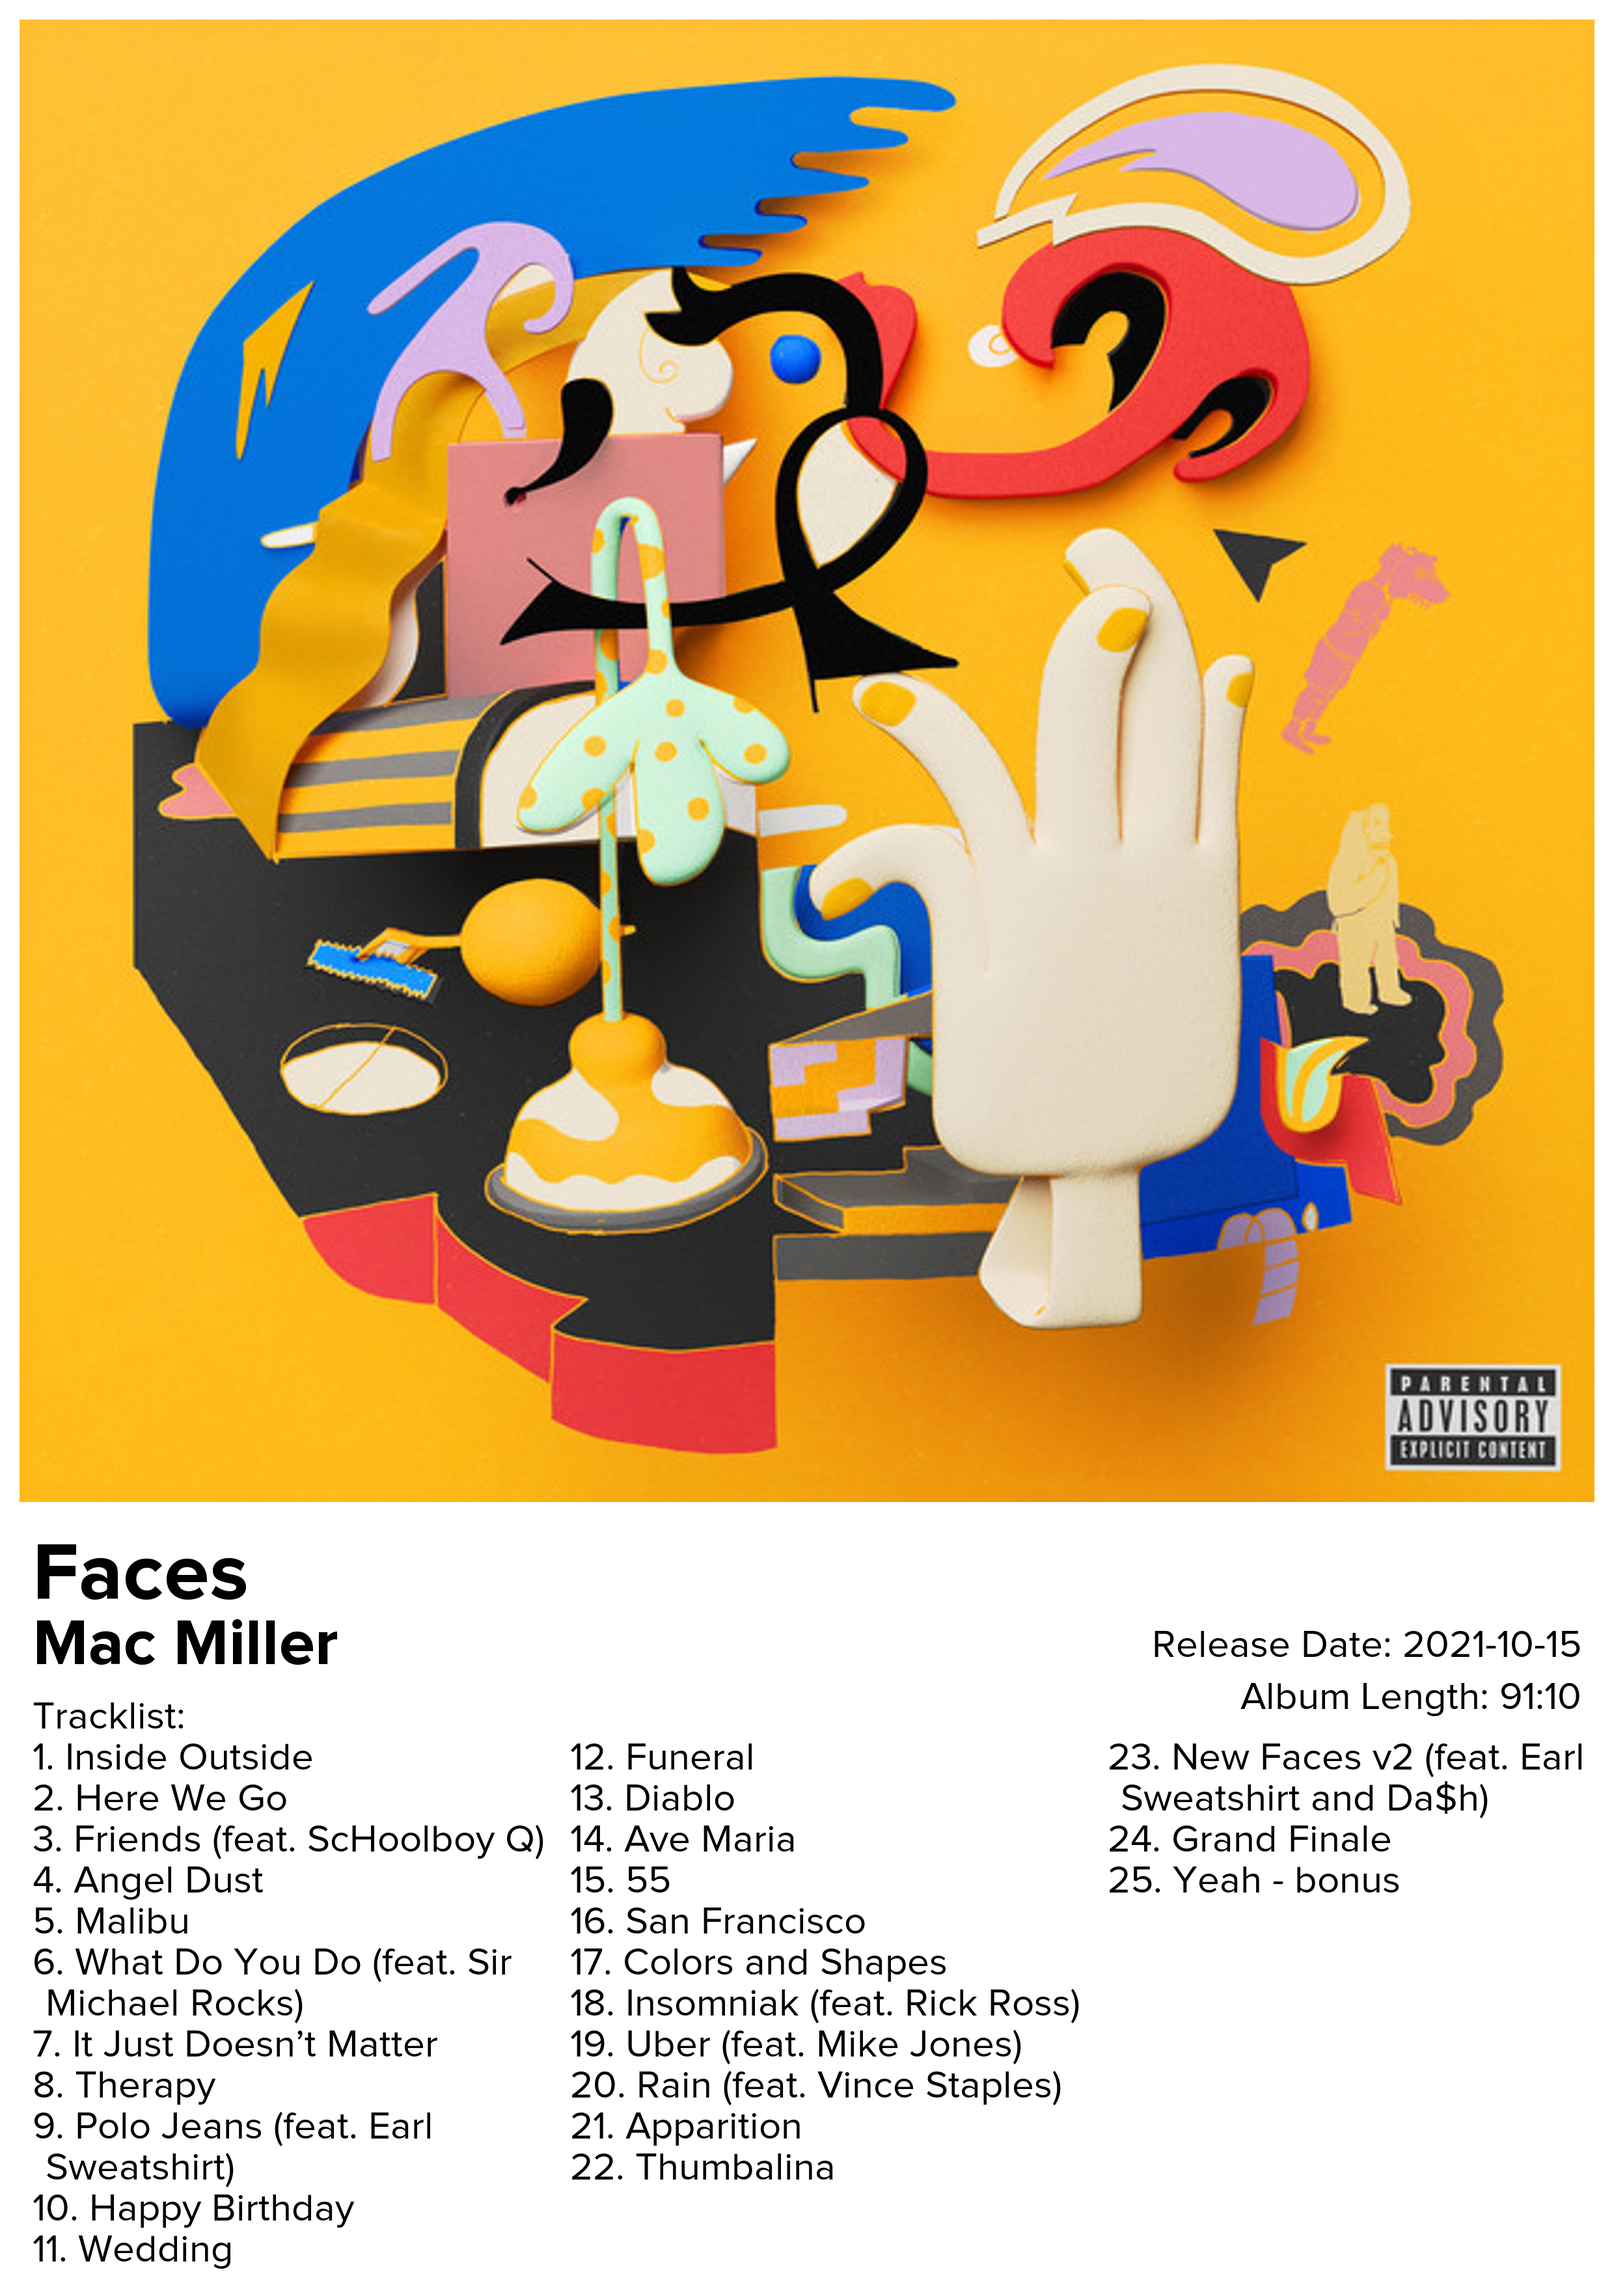
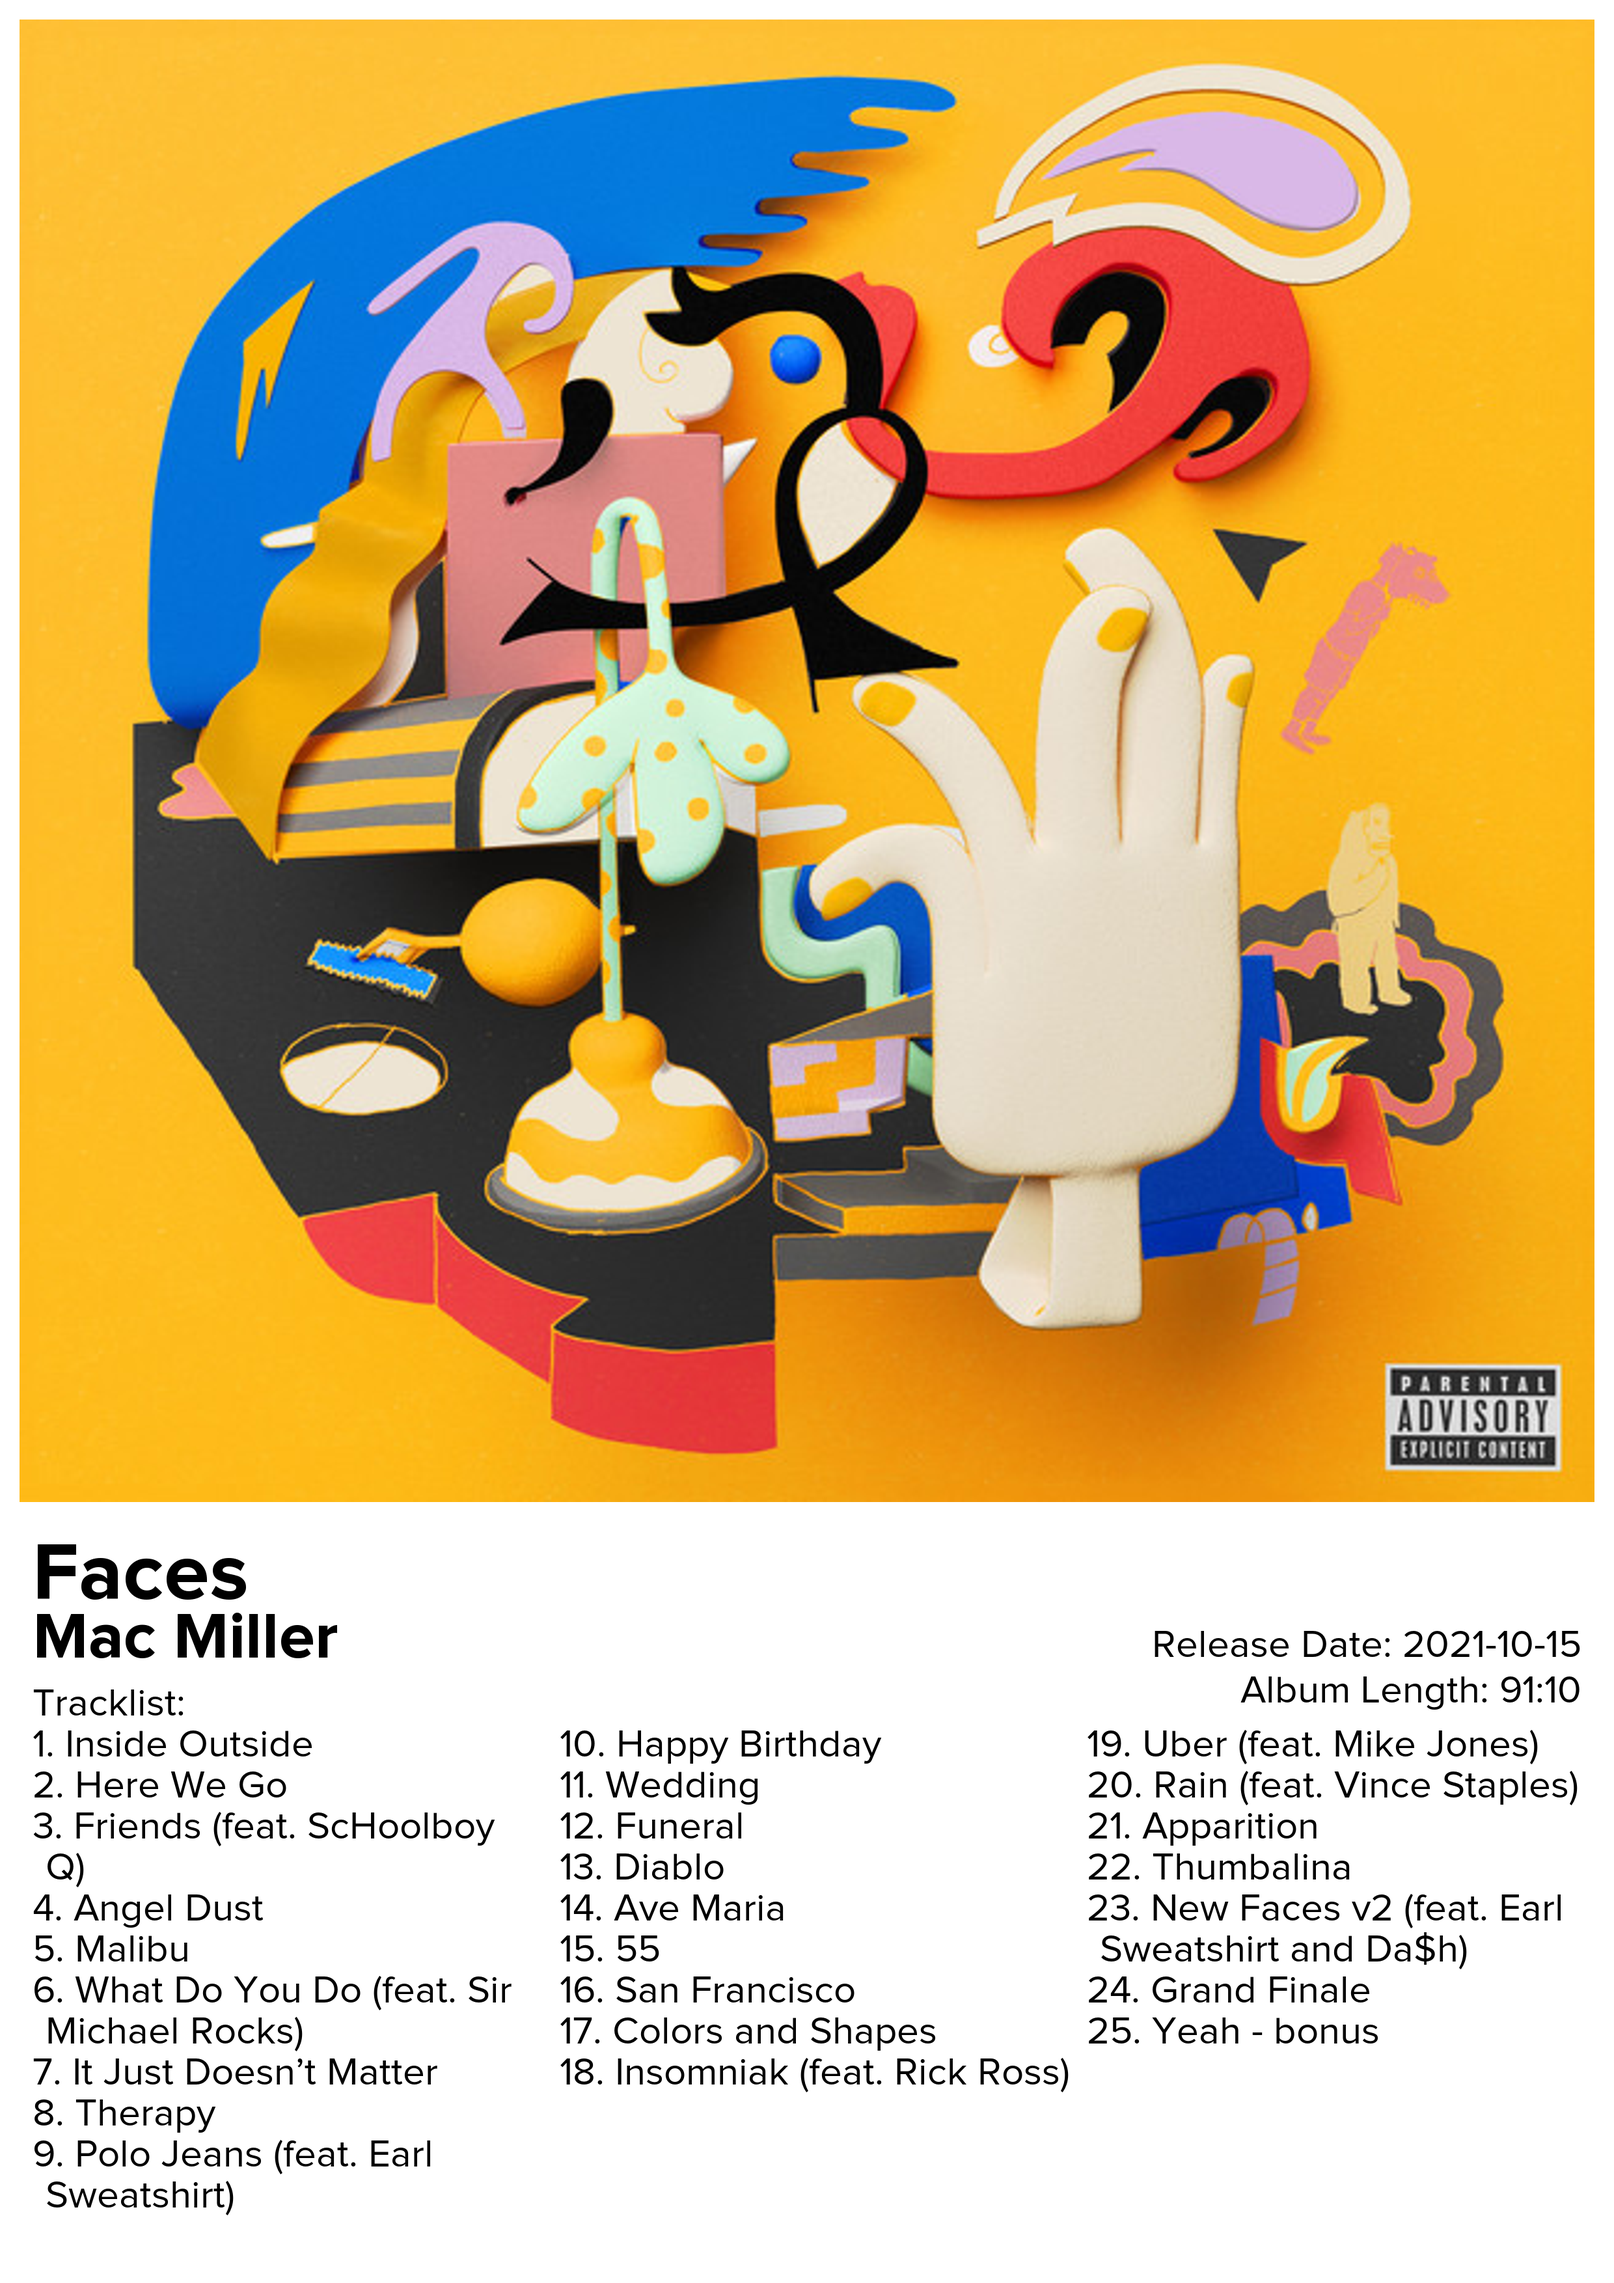
bug: long album titles wrapped

Changed region(s): [[0.3415, 0.7147, 0.9625, 0.9632], [0.0, 0.7147, 0.3105, 0.9943]]

diff --git a/PosterPythonFlask.py b/PosterPythonFlask.py
@@ -104,8 +104,23 @@ def create_album_poster(album_name, artist_name, release_date, cover_url, trackl
     
     # Calculate text positions
     text_start_y = cover_image_height + 20
-    draw.text((50, text_start_y), f"{album_name}", fill="black", font=font_title)
-    draw.text((50, text_start_y + 120), f"{artist_name}", fill="black", font=font_subtitle)
+    
+    # Resize album title font if necessary and wrap text if it's too long
+    max_title_width = poster_width - 100
+    album_name_lines = wrap_text(album_name, font_title, max_title_width)
+    
+    if len(album_name_lines) > 2:
+        # If more than 2 lines, reduce font size
+        font_title = ImageFont.truetype(font_path, 100)
+        album_name_lines = wrap_text(album_name, font_title, max_title_width)
+    
+    # Draw the album title
+    current_y = text_start_y
+    for line in album_name_lines[:2]:  # Limit to 2 lines
+        draw.text((50, current_y), line, fill="black", font=font_title)
+        current_y += font_title.getbbox(line)[3] + 10  # Line height with some padding
+        
+    draw.text((50, current_y), f"{artist_name}", fill="black", font=font_subtitle)
     
     # Right-aligned release date and album length
     release_date_text = f"Release Date: {release_date}"
@@ -115,19 +130,25 @@ def create_album_poster(album_name, artist_name, release_date, cover_url, trackl
     poster_right_margin = 50
 
     draw.text((poster_width - release_date_width - poster_right_margin, text_start_y + 140), release_date_text, fill="black", font=font_text)
-    draw.text((poster_width - album_length_width - poster_right_margin, text_start_y + 220), album_length_text, fill="black", font=font_text)
+    draw.text((poster_width - album_length_width - poster_right_margin, text_start_y + 210), album_length_text, fill="black", font=font_text)
     
     # Draw the tracklist
-    tracklist_start_y = text_start_y + 250
+    tracklist_start_y = current_y + 120
     draw.text((50, tracklist_start_y), "Tracklist:", fill="black", font=font_text)
     
     # Calculate max tracks per column
-    tracklist_column_height = text_area_height - 450
-    line_height = font_text.getbbox("A")[3] + 15  # Height of each line with some padding
-    max_tracks_per_column = tracklist_column_height // line_height  # Assuming each track takes one line
+    if len(album_name_lines) > 1:
+        tracklist_column_height = text_area_height - 500
 
+    if len(album_name_lines) == 1:
+        tracklist_column_height = text_area_height - 400
+        
+    line_height = font_text.getbbox("A")[3] + 15  # Height of each line with some padding
+    ##max_tracks_per_column = tracklist_column_height // line_height  # Assuming each track takes one line
+    max_tracks_per_column = 9
+    
     num_columns = (len(tracklist) + max_tracks_per_column - 1) // max_tracks_per_column
-    column_width = poster_width // num_columns
+    column_width = (poster_width-50) // num_columns
 
     for col in range(num_columns):
         current_y = tracklist_start_y + line_height
@@ -174,7 +195,7 @@ if __name__ == '__main__':
     # Ensure the posters directory exists
     if not os.path.exists('static/posters'):
         os.makedirs('static/posters')
-    app.run(debug=False)
+    app.run(debug=True)
 
 
 """
